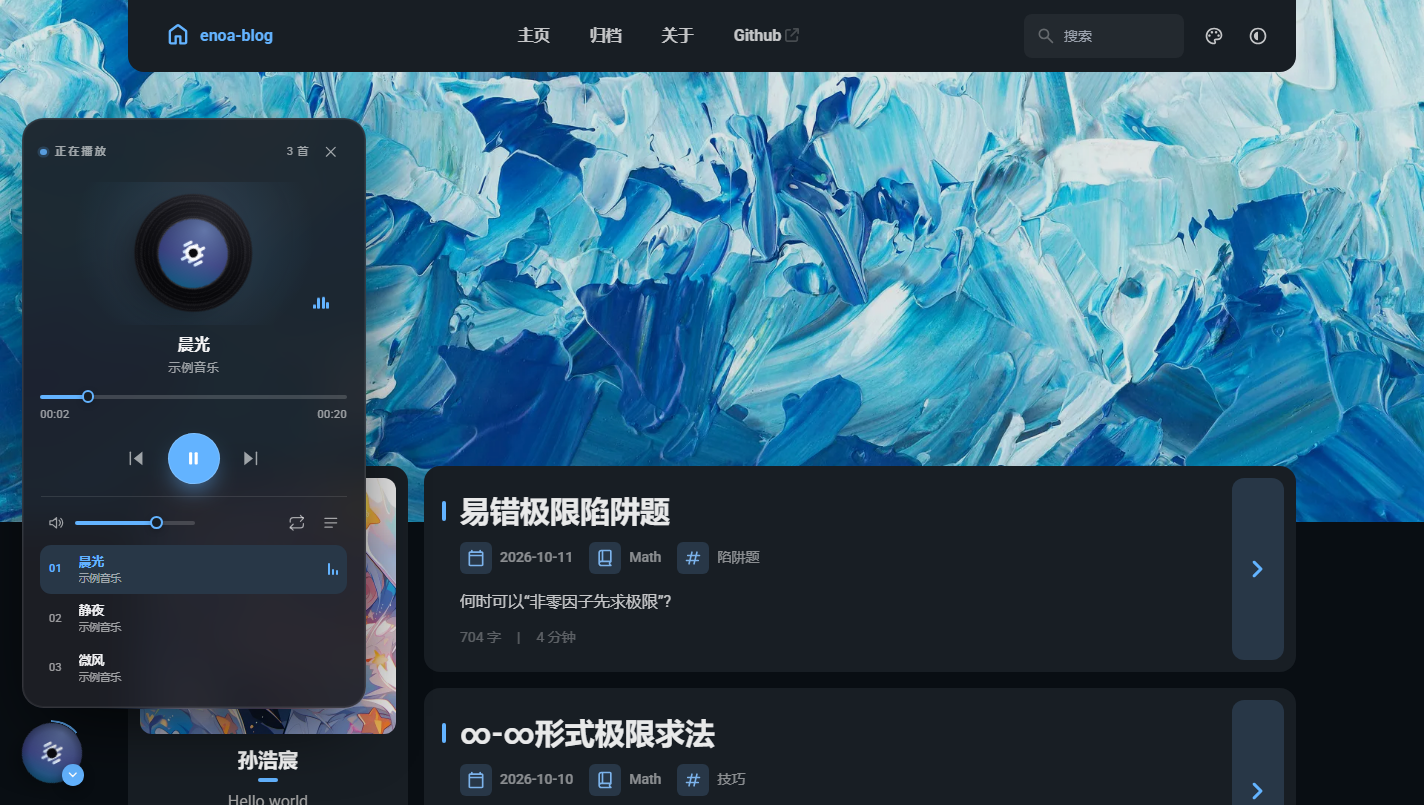
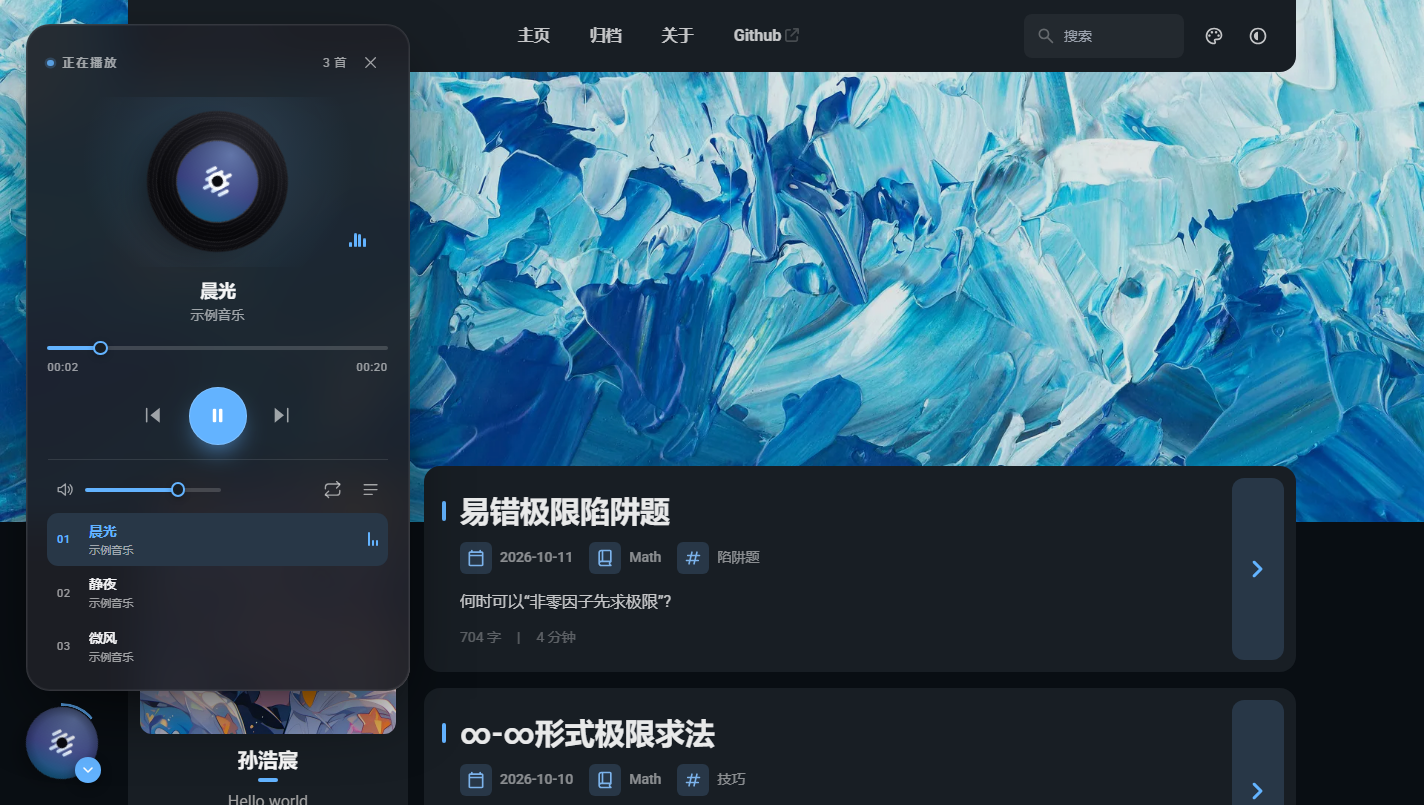
1020 -music-push'

Changed region(s): [[0.0, 0.0311, 0.309, 0.9938]]

diff --git a/src/config.ts b/src/config.ts
@@ -48,20 +48,20 @@ export const siteConfig: SiteConfig = {
 		// or use a full https URL. Cover images are optional.
 		playlist: [
 			{
-				name: "晨光",
-				artist: "示例音乐",
-				url: "/music/demo-morning.wav",
+				name: "「言って。 (说吧。)」",
+				artist: "Yorushika(ヨルシカ)",
+				url: "https://jk.lyszm.com/down.php?hash=831a25f1e41b919db8fe7425df0ad42c",
 				cover: "/music/default-cover.svg",
 			},
 			{
-				name: "静夜",
-				artist: "示例音乐",
-				url: "/music/demo-night.wav",
+				name: "「花の塔」",
+				artist: "酸欠少女さユり",
+				url: "https://jk.lyszm.com/down.php?hash=3ac54eea3c9ee938c00d20e99b1b63f2",
 				cover: "/music/default-cover.svg",
 			},
 			{
 				name: "微风",
-				artist: "示例音乐",
+				artist: "demo",
 				url: "/music/demo-breeze.wav",
 				cover: "/music/default-cover.svg",
 			},
